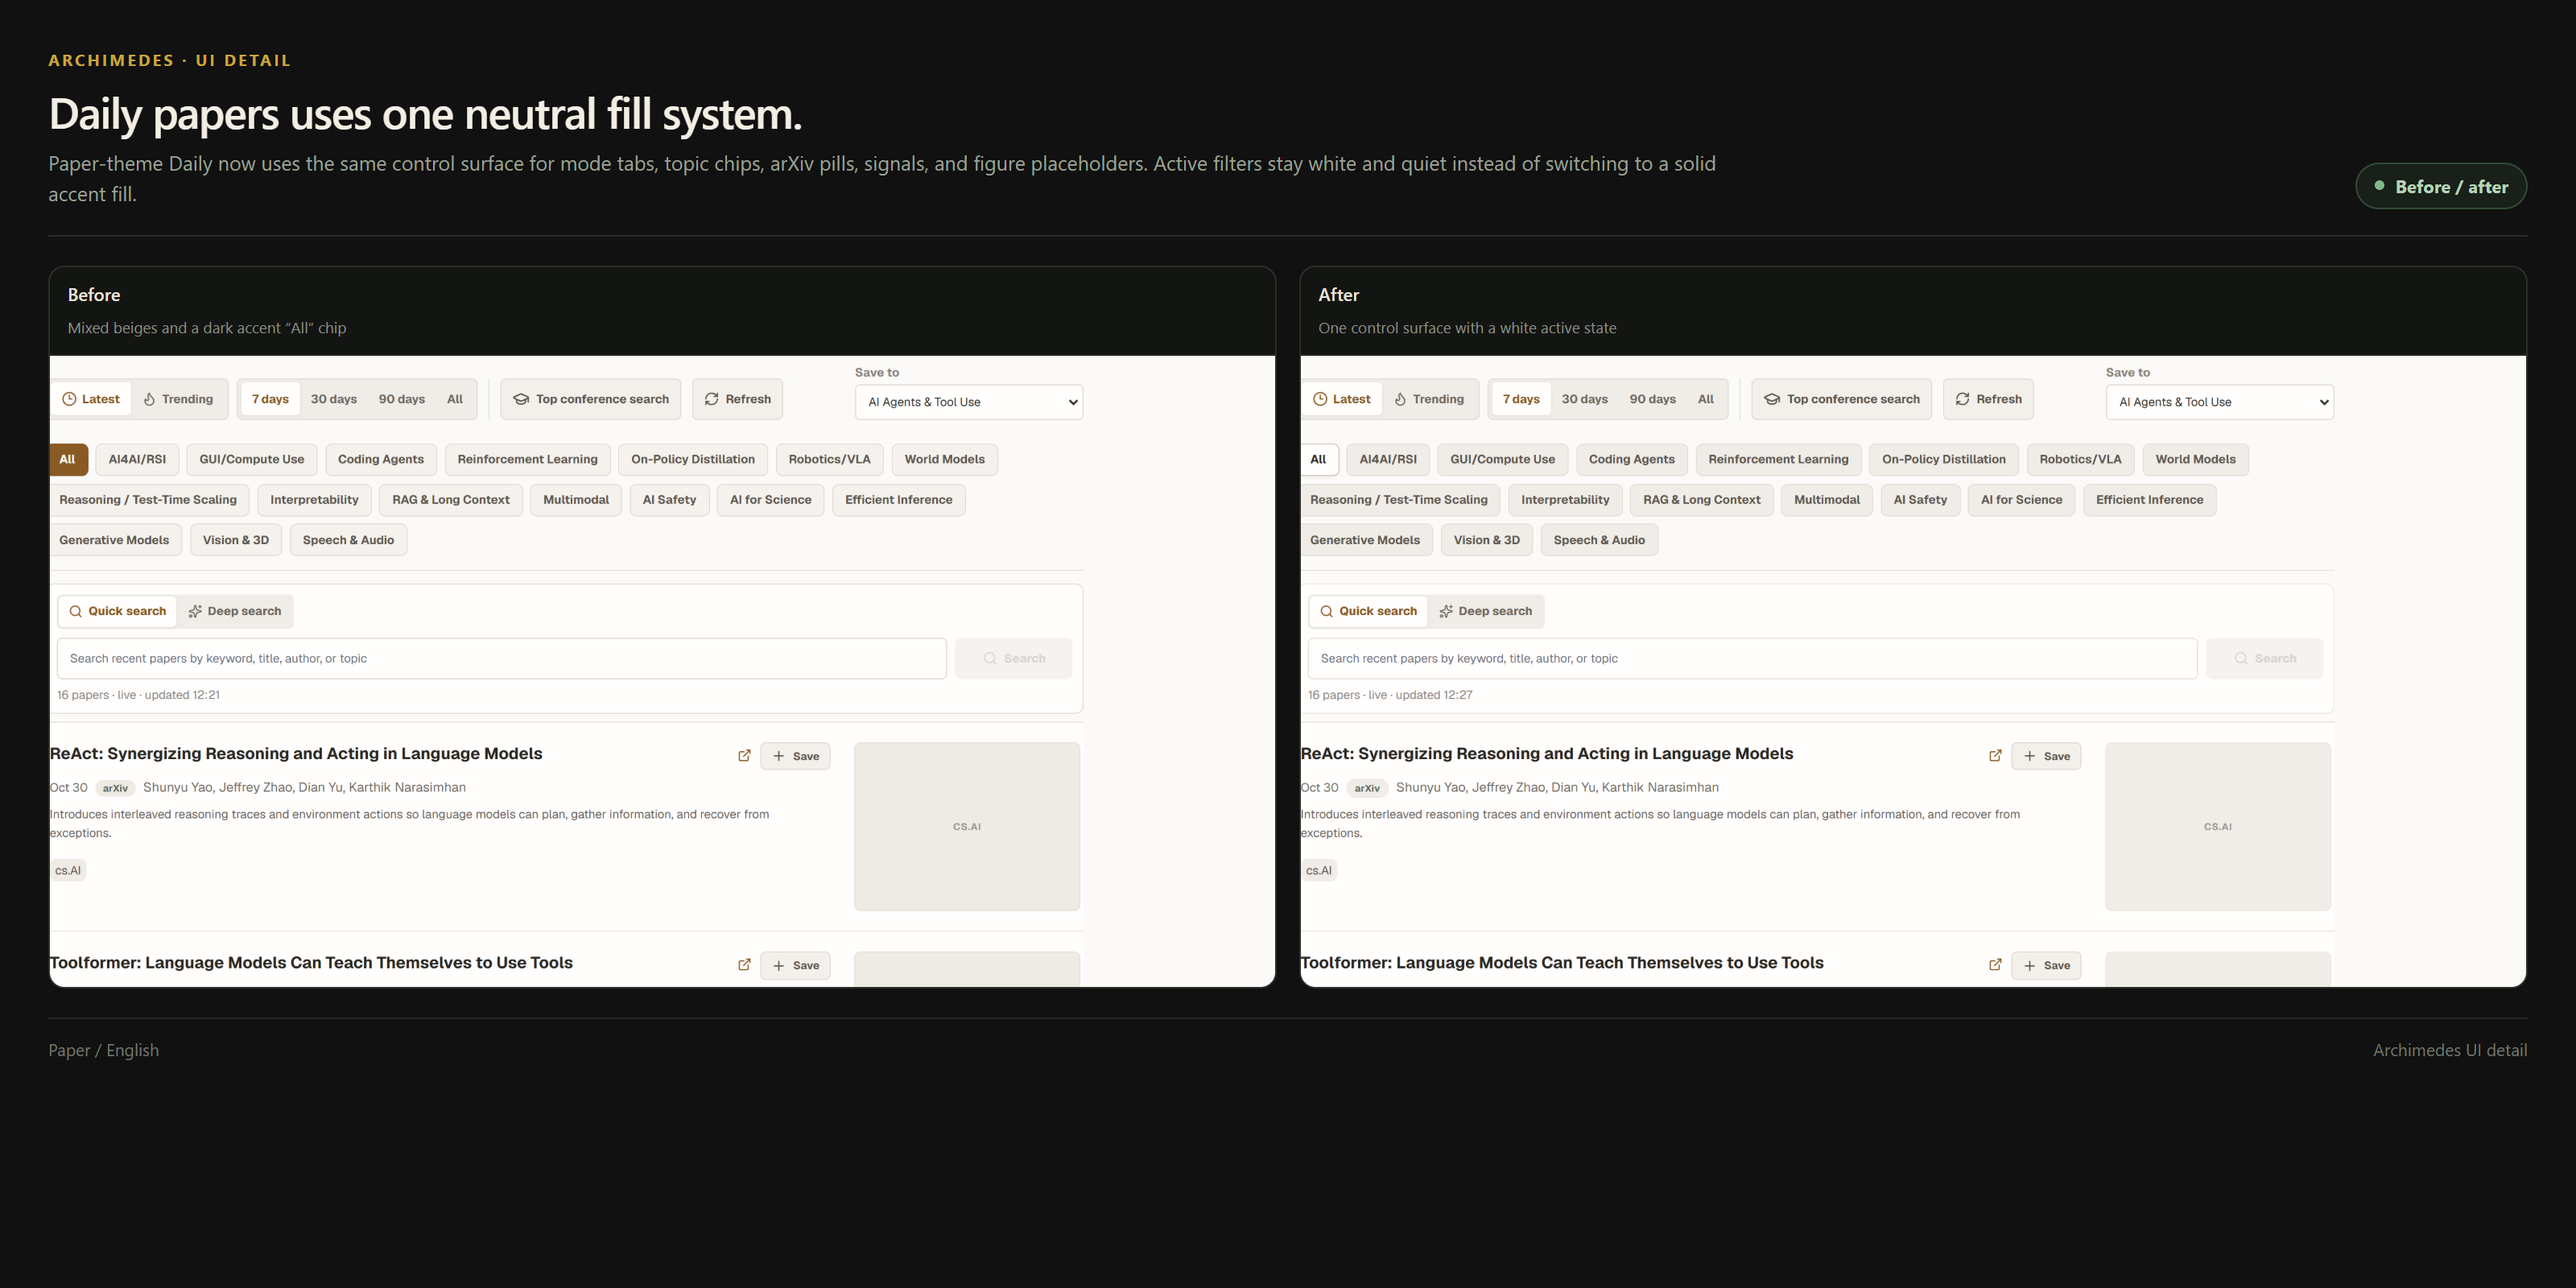
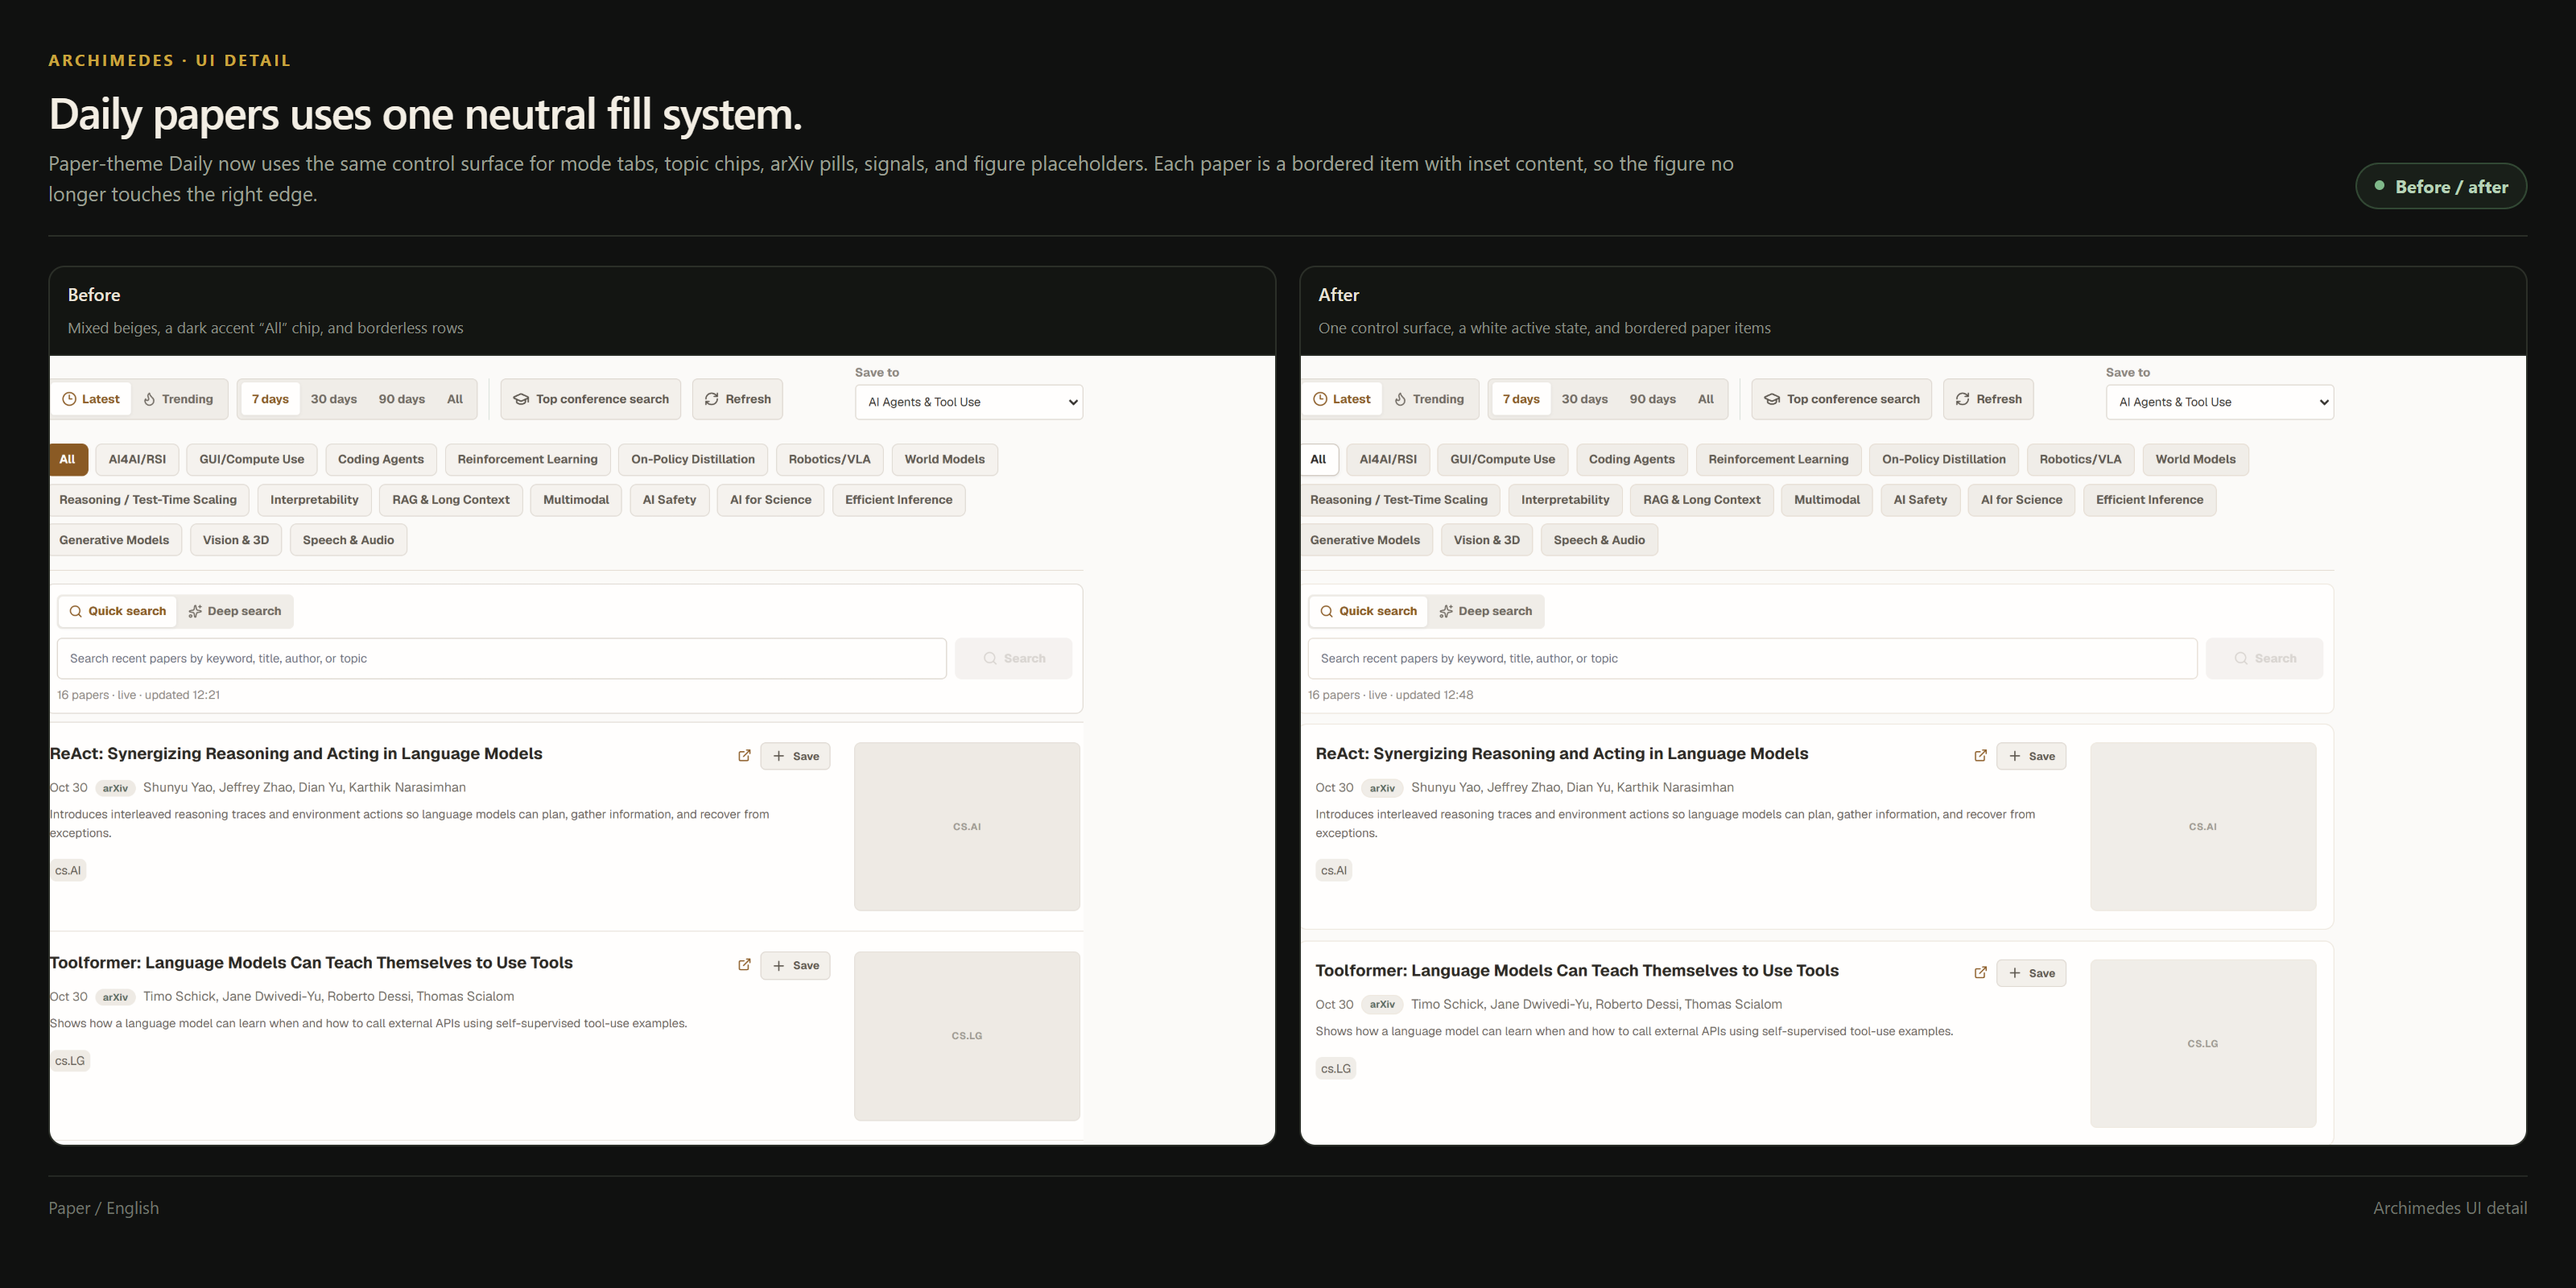
fix(daily): give each paper item its own bordered surface

diff --git a/src/styles.css b/src/styles.css
@@ -3532,8 +3532,13 @@ html[data-theme="paper"] .paper-create-backdrop {
 .theme-paper .daily-search-meta,
 .theme-paper .daily-search-row > span,
 .theme-paper .daily-save-target { color: #8b857d; }
-.theme-paper .daily-paper-list { border-color: #e5e0d9; }
-.theme-paper .daily-paper-row { background: var(--mono-surface); border-color: #ebe6df; }
+.theme-paper .daily-paper-list { display: grid; gap: 10px; padding-top: 2px; border-top: 0; }
+.theme-paper .daily-paper-row {
+  padding: 16px;
+  background: var(--mono-surface);
+  border: 1px solid var(--border-soft);
+  border-radius: 9px;
+}
 .theme-paper .daily-paper-row:hover { background: var(--surface-raised); }
 .theme-paper .daily-paper-title h2 { color: #2b2823; }
 .theme-paper .daily-paper-title a { color: #655f57; }
